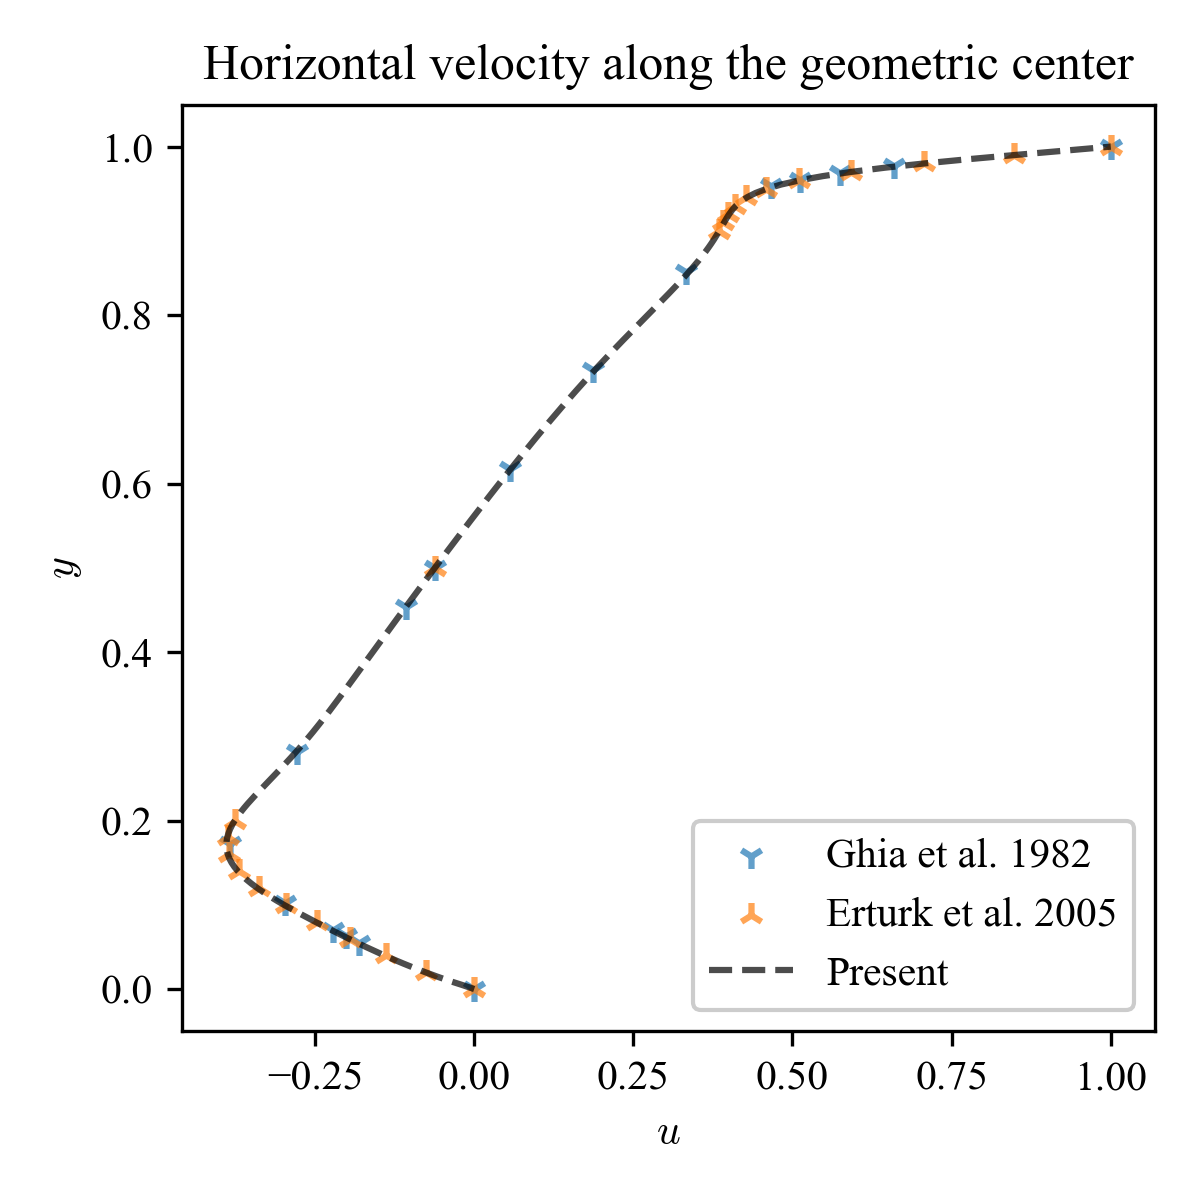
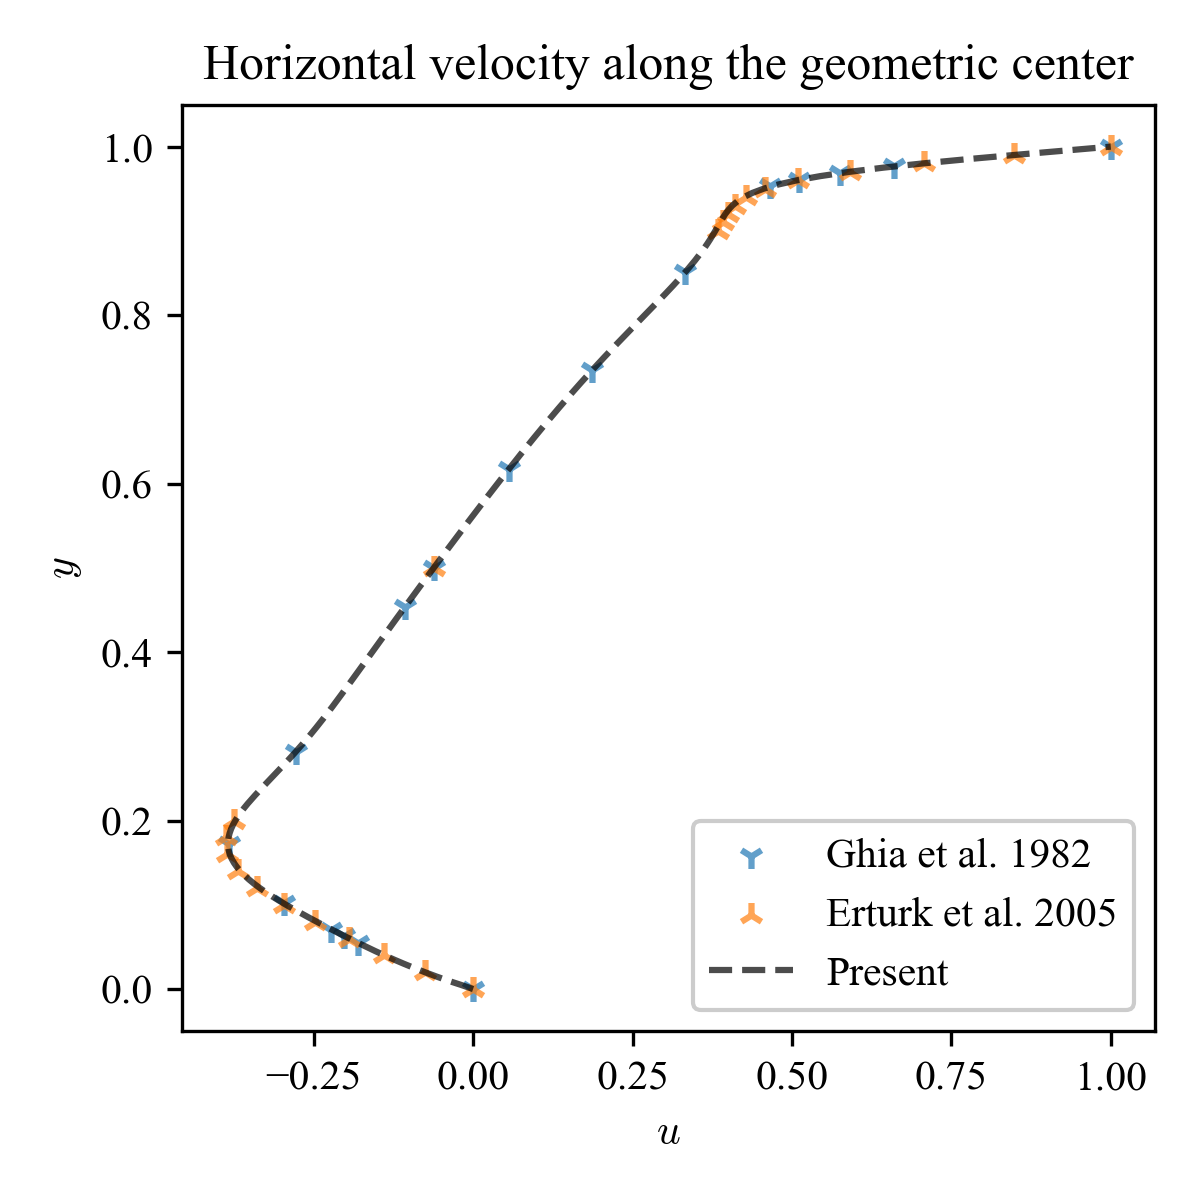
update QUICKEST

diff --git a/01_Arakawa_B/03_QUICKEST/main.py b/01_Arakawa_B/03_QUICKEST/main.py
@@ -49,15 +49,23 @@ def plot_setting():
     plt.rcParams["savefig.dpi"] = 300
 
 
-def get_convection(u, v, dx, dy, beta):
+def get_convection(u, v, dt, dx, dy, beta=None):
     u_u_x = u[2:-2, 2:-2] * (- u[2:-2, 4:] + 8. * u[2:-2, 3:-1] - 8. * u[2:-2, 1:-3] + u[2:-2, :-4]) / (12. * dx) \
-            + np.abs(u[2:-2, 2:-2]) * (u[2:-2, 4:] - 4. * u[2:-2, 3:-1] + 6. * u[2:-2, 2:-2] - 4. * u[2:-2, 1:-3] + u[2:-2, :-4]) / (12. * dx)
+            + np.abs(u[2:-2, 2:-2]) * (u[2:-2, 4:] - 4. * u[2:-2, 3:-1] + 6. * u[2:-2, 2:-2] - 4. * u[2:-2, 1:-3] + u[2:-2, :-4]) / (12. * dx) \
+            - dt**1 * u[2:-2, 2:-2]**2 / 2. * (u[2:-2, 3:-1] - 2. * u[2:-2, 2:-2] + u[2:-2, 1:-3]) / dx**2 \
+            + dt**2 * u[2:-2, 2:-2]**3 / 6. * (u[2:-2, 4:] - 2. * u[2:-2, 3:-1] + 2. * u[2:-2, 1:-3] - u[2:-2, :-4]) / (2. * dx**2)
     v_u_y = v[2:-2, 2:-2] * (- u[4:, 2:-2] + 8. * u[3:-1, 2:-2] - 8. * u[1:-3, 2:-2] + u[:-4, 2:-2]) / (12. * dy) \
-            + np.abs(v[2:-2, 2:-2]) * (u[4:, 2:-2] - 4. * u[3:-1, 2:-2] + 6. * u[2:-2, 2:-2] - 4. * u[1:-3, 2:-2] + u[:-4, 2:-2]) / (12. * dy)
+            + np.abs(v[2:-2, 2:-2]) * (u[4:, 2:-2] - 4. * u[3:-1, 2:-2] + 6. * u[2:-2, 2:-2] - 4. * u[1:-3, 2:-2] + u[:-4, 2:-2]) / (12. * dy) \
+            - dt**1 * v[2:-2, 2:-2]**2 / 2. * (u[3:-1, 2:-2] - 2. * u[2:-2, 2:-2] + u[1:-3, 2:-2]) / dy**2 \
+            + dt**2 * v[2:-2, 2:-2]**3 / 6. * (u[4:, 2:-2] - 2. * u[3:-1, 2:-2] + 2. * u[1:-3, 2:-2] - u[:-4, 2:-2]) / (2. * dy**2)
     u_v_x = u[2:-2, 2:-2] * (- v[2:-2, 4:] + 8. * v[2:-2, 3:-1] - 8. * v[2:-2, 1:-3] + v[2:-2, :-4]) / (12. * dx) \
-            + np.abs(u[2:-2, 2:-2]) * (v[2:-2, 4:] - 4. * v[2:-2, 3:-1] + 6. * v[2:-2, 2:-2] - 4. * v[2:-2, 1:-3] + v[2:-2, :-4]) / (12. * dx)
+            + np.abs(u[2:-2, 2:-2]) * (v[2:-2, 4:] - 4. * v[2:-2, 3:-1] + 6. * v[2:-2, 2:-2] - 4. * v[2:-2, 1:-3] + v[2:-2, :-4]) / (12. * dx) \
+            - dt**1 * u[2:-2, 2:-2]**2 / 2. * (v[2:-2, 3:-1] - 2. * v[2:-2, 2:-2] + v[2:-2, 1:-3]) / dx**2 \
+            + dt**2 * u[2:-2, 2:-2]**3 / 6. * (v[2:-2, 4:] - 2. * v[2:-2, 3:-1] + 2. * v[2:-2, 1:-3] - v[2:-2, :-4]) / (2. * dx**2)
     v_v_y = v[2:-2, 2:-2] * (- v[4:, 2:-2] + 8. * v[3:-1, 2:-2] - 8. * v[1:-3, 2:-2] + v[:-4, 2:-2]) / (12. * dy) \
-            + np.abs(v[2:-2, 2:-2]) * (v[4:, 2:-2] - 4. * v[3:-1, 2:-2] + 6. * v[2:-2, 2:-2] - 4. * v[1:-3, 2:-2] + v[:-4, 2:-2]) / (12. * dy)
+            + np.abs(v[2:-2, 2:-2]) * (v[4:, 2:-2] - 4. * v[3:-1, 2:-2] + 6. * v[2:-2, 2:-2] - 4. * v[1:-3, 2:-2] + v[:-4, 2:-2]) / (12. * dy) \
+            - dt**1 * v[2:-2, 2:-2]**2 / 2. * (v[3:-1, 2:-2] - 2. * v[2:-2, 2:-2] + v[1:-3, 2:-2]) / dy**2 \
+            + dt**2 * v[2:-2, 2:-2]**3 / 6. * (v[4:, 2:-2] - 2. * v[3:-1, 2:-2] + 2. * v[1:-3, 2:-2] - v[:-4, 2:-2]) / (2. * dy**2)
     conv_u = u_u_x + v_u_y
     conv_v = u_v_x + v_v_y
     return conv_u, conv_v
@@ -215,7 +223,7 @@ def main():
         v_hat = v.copy()
 
         # convection
-        conv_u, conv_v = get_convection(u_old, v_old, dx, dy, beta)
+        conv_u, conv_v = get_convection(u_old, v_old, dt, dx, dy, beta)
 
         # diffusion
         diff_u, diff_v = get_diffusion(u_old, v_old, dx, dy, k)
